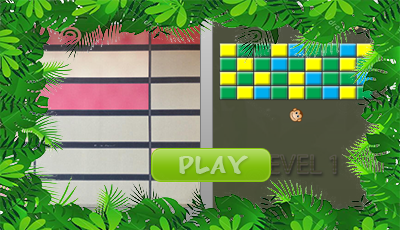
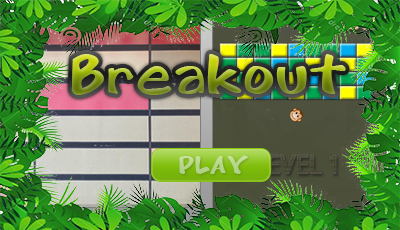
visual update
moved flappy to map file

Changed region(s): [[0.15, 0.213, 0.9, 0.4565]]

diff --git a/public/views/map.html b/public/views/map.html
@@ -7,7 +7,7 @@
 	<li>You can see your achievements from the map</li>
 </ul>
 
-<h2 class="h2game1">Ping Pong</h2>
+<h2 class="h2game1">Breakout</h2>
 <ul class="pgame1">
 	<li>Clear all the blocks to complete a level</li>
 	<li>You have 3 lives</li>
@@ -54,12 +54,6 @@ DEMO
 DEMO
 </div>
 </div>
-
-<div class="game3demo">
-<div id="demo2">
-DEMO
-</div>
-</div>
 </div>
 
 <div id="games">
@@ -70,7 +64,6 @@ DEMO
 		<li class="game-icon4"><img src="img/but2.png"> Dress Up</li>
 	</ul>
 </div>
-<div id="whitespace" style="margin-top:103px;width:39.6%;"></div>
 <div id="iphone_holder">
 <div id="gamewrapper">
 <div class="game-container5">
@@ -150,15 +143,11 @@ DEMO
 	</div>
 </div>
 <div class="game3">
-<div class="game-container4">
-	<img class="spike" src="/img/av.png">
-	<img class="spike2" src="/img/av.png">
-	<img class="spike3" src="/img/av.png">
-	<img class="box_spike" src="/img/boks.png">
-	<img class="box_2_spike" src="/img/spikebox.png">
-	<img class="box_spike1" src="/img/boks.png">
-	<img class="box_2_spike1" src="/img/spikebox.png">
-	<img class="fugl" src="/img/abefugl.png">
+<div class="game-container4" id="canvas">
+
+  <script type="text/javascript" src="../js/phaser.min.js"></script>
+  <script type="text/javascript" src="../js/main.js"></script>
+
 </div>
 </div>
 </div>
@@ -178,7 +167,6 @@ DEMO
 <p class="pgame4"></p>
 </div>
 </div>
-<div id="whitespace" class="whitenumbertwo"></div>
 <!-- Custom scrollbar script, keep in document -->
 <script>
 (function($){
